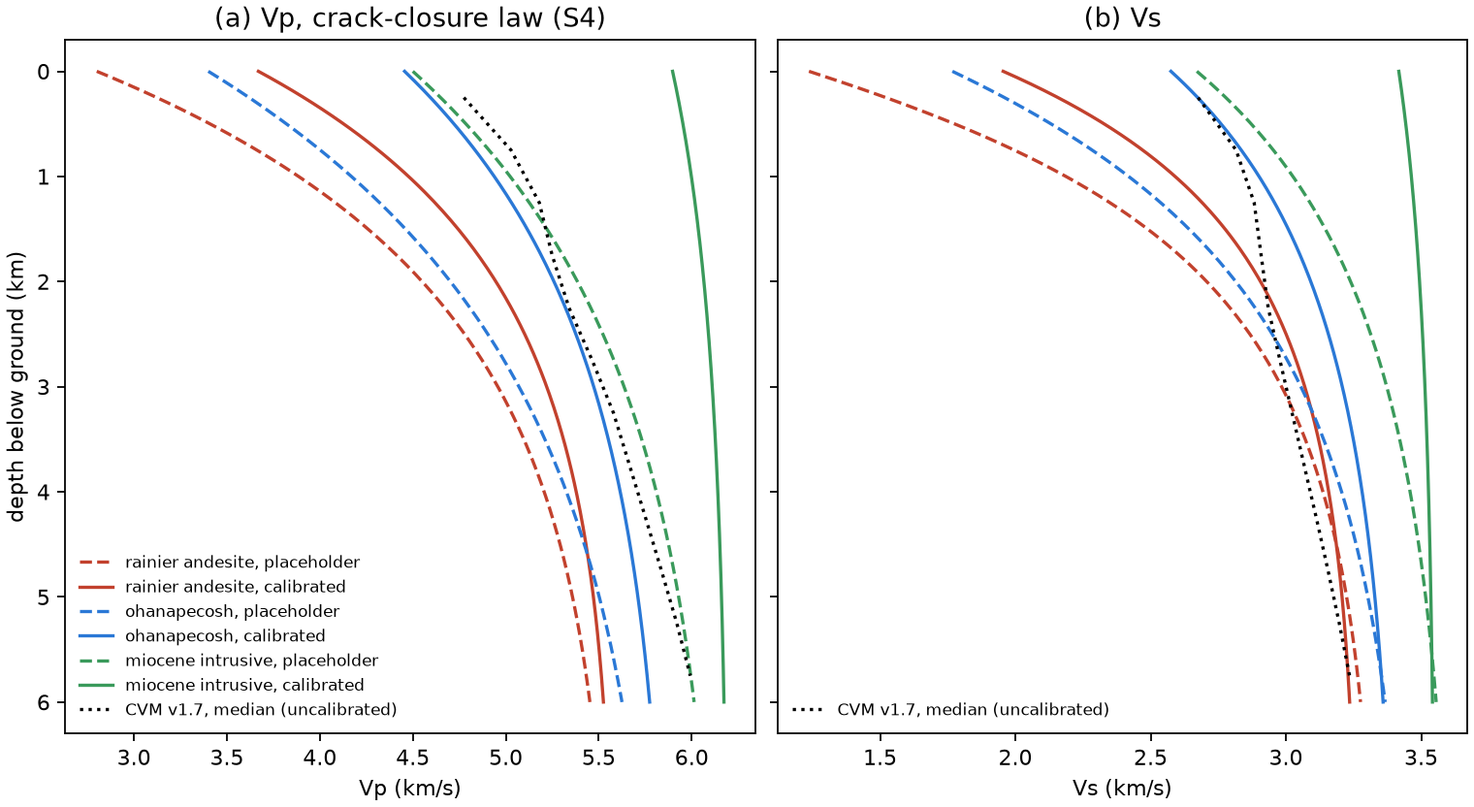
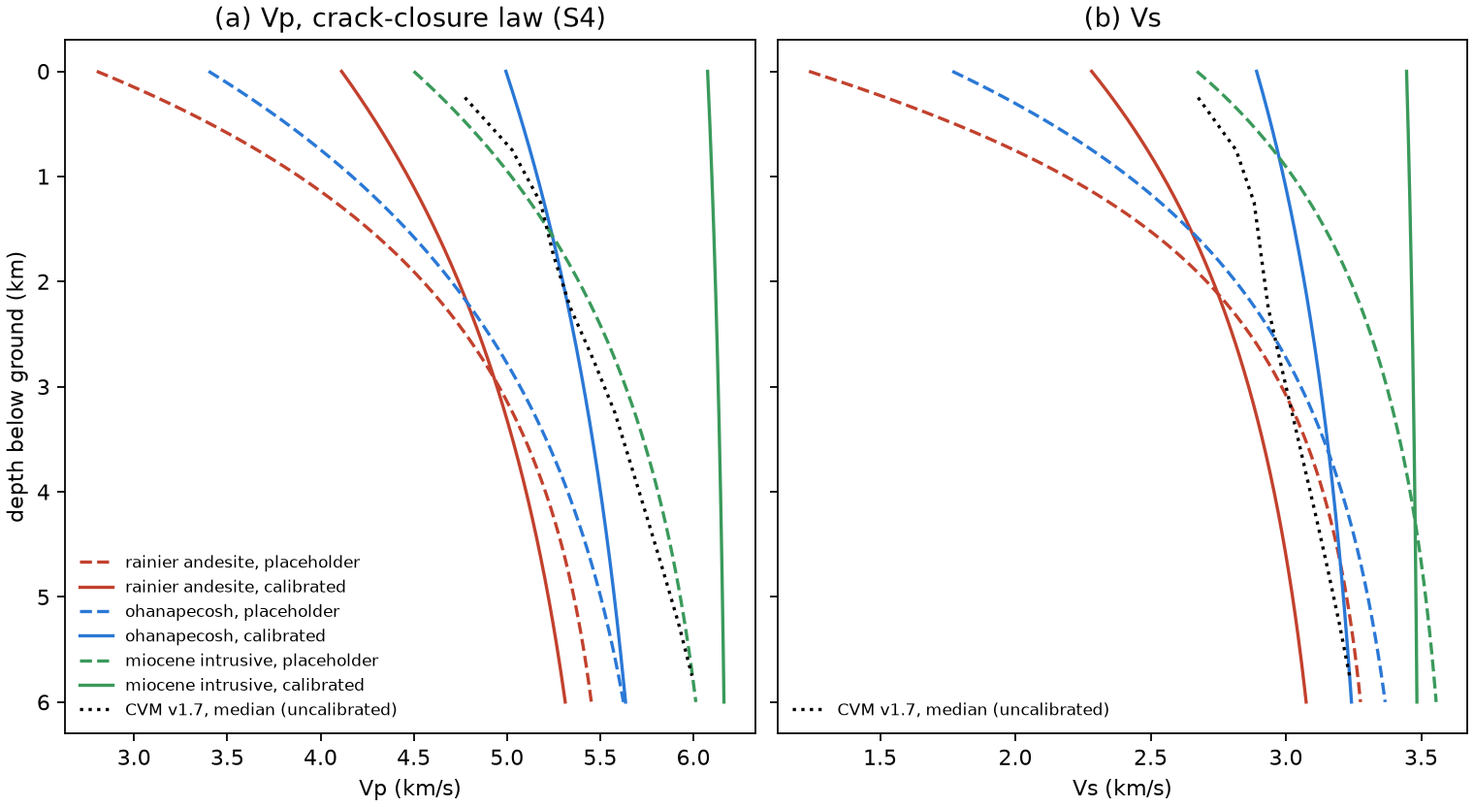
Figures and paper numbers remade on the model with the critical zone
New Fig. 9 (fig24_cz_section): the critical zone along A-A'. S6, S14, S16, S21
and S26 rerun on the recalibrated model; validation, iMUSH, relocation tables,
abstract and introduction updated. S16 and S21 now read the current model.

diff --git a/scripts/21_compare_imush.py b/scripts/21_compare_imush.py
@@ -4,9 +4,9 @@
 A test of the S13 static bias on CVM v1.7 / CRESCENT: at every Ulberg node inside the domain that the EMC
 file leaves unmasked (checkerboard recovery for 20 km features), sample
   regional      CVM v1.7 / CRESCENT as distributed        (vp_regional, vs_regional of model_nocal.zarr)
-  regional_bias the same with the S13 static bias          (vp_regional, vs_regional of model_v2.zarr)
+  regional_bias the same with the S13 static bias          (vp_regional, vs_regional of model.zarr)
   fused_uncal   the fused model before calibration          (vp, vs of model_nocal.zarr)
-  fused_v2      the fused model after S13 v2                (vp, vs of model_v2.zarr)
+  fused_v2      the fused model after S13 (critical zone)   (vp, vs of model.zarr)
 and report ln(V_Ulberg / V_model) by depth below the ground, for the whole domain and for its south
 (< 46.65 N, inside the iMUSH array) and north (>= 46.75 N, Rainier). Vp/Vs is compared with Ulberg's
 'matched' Vp and Vs
@@ -41,9 +41,9 @@ BINS = np.array([0, 1000, 2000, 3000, 4000, 6000, 8000, 11000, 15000, 20000])
 SOUTH_MAX, NORTH_MIN = 46.65, 46.75
 MODELS = {
     "regional": ("data/processed/model_nocal.zarr", "{v}_regional"),
-    "regional_bias": ("data/processed/model_v2.zarr", "{v}_regional"),
+    "regional_bias": ("data/processed/model.zarr", "{v}_regional"),
     "fused_uncal": ("data/processed/model_nocal.zarr", "{v}"),
-    "fused_v2": ("data/processed/model_v2.zarr", "{v}"),
+    "fused_v2": ("data/processed/model.zarr", "{v}"),
 }
 
 
@@ -109,7 +109,7 @@ def figure(tab: pd.DataFrame, path):
     styles = {
         "regional": ("#d98c2b", "CVM v1.7 / CRESCENT"),
         "regional_bias": ("#8a5cc2", "same + S13 static bias"),
-        "fused_v2": ("#2a78d6", "rainier3d (S13 v2)"),
+        "fused_v2": ("#2a78d6", "rainier3d"),
     }
     mid = {f"{a}-{b}": (a + b) / 2e3 for a, b in zip(BINS[:-1], BINS[1:], strict=True)}
     fig, ax = plt.subplots(1, 3, figsize=(12, 5.2), sharey=True, constrained_layout=True)
@@ -133,9 +133,7 @@ def figure(tab: pd.DataFrame, path):
             t.vpvs_ulberg_matched, z, ls, color="k", marker="o", ms=3, label=f"Ulberg 2020, matched{sfx}"
         )
         ax[2].plot(t.vpvs_regional, z, ls, color="#d98c2b", label=f"CVM v1.7 / CRESCENT{sfx}")
-        ax[2].plot(
-            t.vpvs_fused_v2, z, ls, color="#2a78d6", marker="o", ms=3, label=f"rainier3d (S13 v2){sfx}"
-        )
+        ax[2].plot(t.vpvs_fused_v2, z, ls, color="#2a78d6", marker="o", ms=3, label=f"rainier3d{sfx}")
     ax[2].set(xlabel="Vp/Vs (median, matched nodes)", title="(c) Vp/Vs")
     ax[0].set_ylabel("depth below ground (km)")
     ax[0].invert_yaxis()
@@ -148,7 +146,7 @@ def main():
     dom = load_domain()
     df = ulberg_nodes(dom)
     trees = {p: read_tree(REPO / p) for p in {p for p, _ in MODELS.values()}}  # each file read once
-    surf = trees["data/processed/model_v2.zarr"]["surface"].to_dataset()["elevation"]
+    surf = trees["data/processed/model.zarr"]["surface"].to_dataset()["elevation"]
     g = surf.interp(x=xr.DataArray(df.x.values, dims="p"), y=xr.DataArray(df.y.values, dims="p")).values
     df["depth_bg"] = g - df.z.values
     df = df[df.depth_bg > 0].reset_index(drop=True)

diff --git a/src/rainier3d/report/figures.py b/src/rainier3d/report/figures.py
@@ -598,6 +598,69 @@ def fig_depth_to_rock(tree, dom, path):
     return path
 
 
+def fig_cz_section(tree, dom, path, at_y, half_km=35.0, zmax=80.0):
+    """The critical zone along A-A' (the /cz columns, S4): ground and ice, then Vs, saturation and the
+    weathering index against depth below the ground or glacier bed, with layer bases and water table."""
+    from matplotlib.colors import LogNorm
+
+    cz = tree["cz"].to_dataset().sel(y=at_y, method="nearest")
+    sx, _ = dom.summit_xy
+    cz = cz.where(np.abs(cz.x - sx) <= half_km * 1e3, drop=True)
+    d = (cz.x.values - sx) / 1e3
+    z = cz["cz_depth"].values
+    surf = tree["surface"].to_dataset().sel(y=at_y, method="nearest").interp(x=cz.x.values)
+    fig, axs = plt.subplots(
+        4, 1, figsize=(7.2, 7.4), sharex=True, constrained_layout=True, height_ratios=[0.55, 1, 1, 1]
+    )
+    ax = axs[0]
+    elev = surf["elevation"].values / 1e3
+    ice = np.nan_to_num(cz["ice_thickness"].values) / 1e3
+    ax.fill_between(d, elev - ice, elev, color="#9fc9e8", lw=0, label="glacier ice")
+    ax.fill_between(  # ice-covered columns: no weathered layer, fractured rock saturated from the bed
+        d,
+        0,
+        1,
+        where=ice > 0,
+        transform=ax.get_xaxis_transform(),
+        color="#9fc9e8",
+        alpha=0.25,
+        lw=0,
+        step="mid",
+        label="ice-covered columns",
+    )
+    ax.plot(d, elev, color=INK, lw=0.8)
+    ax.set_ylabel("elevation (km)")
+    ax.set_title("(a) Ground surface along A–A′", fontsize=7, loc="left")
+    ax.legend(fontsize=6, loc="upper left", frameon=False)
+    lines = [
+        ("z_cover", "cover base", "#eda100", "-"),
+        ("z_weathered", "weathered base", "#e34948", "-"),
+        ("z_fractured", "fractured base (W = 0)", INK, "--"),
+        ("water_table", "water table (Fan et al. 2017)", "#2a78d6", ":"),
+    ]
+    panels = [
+        ("vs", "(b) Vs (m s⁻¹)", cmc.roma, LogNorm(150, 3500)),
+        ("saturation", "(c) Water saturation", cmc.devon_r, None),
+        ("weathering_index", "(d) Weathering index W", cmc.lajolla, None),
+    ]
+    for ax, (var, title, cmap, norm) in zip(axs[1:], panels, strict=True):
+        v = cz[var].transpose("cz_depth", "x").values
+        kw = {"norm": norm} if norm is not None else {"vmin": 0, "vmax": 1}
+        m = ax.pcolormesh(d, z, v, cmap=cmap, shading="nearest", rasterized=True, **kw)
+        for name, lab, col, ls in lines:
+            if name in cz:
+                ax.plot(d, cz[name].values, color=col, lw=0.9, ls=ls, label=lab)
+        ax.set_ylim(zmax, 0)
+        ax.set_ylabel("depth below ground\nor glacier bed (m)")
+        ax.set_title(title, fontsize=7, loc="left")
+        fig.colorbar(m, ax=ax, pad=0.01, aspect=12)
+    axs[1].legend(fontsize=6, loc="lower left", ncol=4, frameon=True, framealpha=0.85)
+    axs[-1].set_xlabel("km east of summit, section A–A′")
+    fig.savefig(path)
+    plt.close(fig)
+    return path
+
+
 def fig_vs_calibration(cal_yaml, pairs_csv, path):
     """(a) calibrated log-factor on the regional Vs against depth; (b) held-out S-P residuals before/after."""
     import yaml

diff --git a/scripts/16_relocation_figures.py b/scripts/16_relocation_figures.py
@@ -1,9 +1,9 @@
 """S16: figures for the joint Vp-Vs calibration with 3D relocation (S13, S14) -> docs/joint_calibration/.
 
 Reads configs/vs_calibration.yaml (S12), configs/velocity_calibration_v1.yaml (first S13 run, depth factors),
-configs/velocity_calibration.yaml (S13 v2: geology multipliers + static bias of the regional model), the S14
-relocations in outputs/relocation/<name>/ (all with slow air above the DEM + 1 cell), and the model snapshots
-in data/processed/ named in MODELS.
+configs/velocity_calibration.yaml (S13 with the critical zone: geology multipliers + static bias of the
+regional model), the S14 relocations in outputs/relocation/<name>/ (all with slow air above the DEM + 1 cell),
+and the model snapshots in data/processed/ named in MODELS.
 
 Usage: pixi run python scripts/16_relocation_figures.py
 """
@@ -29,7 +29,7 @@ MODELS = {
     "fused_nocal": ("3D, uncalibrated", "data/processed/model_nocal.zarr"),
     "fused_vscal": ("3D, Vs only (S12)", "data/processed/model_vscal_20260924.zarr"),
     "fused_v1": ("3D, depth factors (S13 v1)", "data/processed/model_joint_s13.zarr"),
-    "fused_joint": ("3D, geology + bias (S13 v2)", "data/processed/model.zarr"),
+    "fused_joint": ("3D, geology + bias + critical zone (S13)", "data/processed/model.zarr"),
 }
 COLORS = {
     "pnsn1d": "#7a7a7a",
@@ -77,7 +77,7 @@ def fig_factors():
     kf = np.array(sd["free_knots_m"]) / 1e3
     for v, c, lab in (("vp", "#c2412d", "Vp"), ("vs", COLORS["fused_joint"], "Vs")):
         f = np.array(v2[v]["factor"])
-        ax[0].plot(f, k, "o-", color=c, label=f"{lab}, S13 v2 static bias of the regional model")
+        ax[0].plot(f, k, "o-", color=c, label=f"{lab}, S13 static bias of the regional model")
         fk = f[np.isin(k, kf)]
         e = np.array(sd[v])
         ax[0].fill_betweenx(kf, fk * np.exp(-e), fk * np.exp(e), color=c, alpha=0.15, lw=0)

diff --git a/scripts/10_report.py b/scripts/10_report.py
@@ -57,6 +57,8 @@ def figures(dom):
     ]
     if "depth_to_bedrock" in tree["surface"]:
         made.append(F.fig_depth_to_rock(tree, dom, FIG / "fig23_depth_to_rock.png"))
+    if "cz" in tree:
+        made.append(F.fig_cz_section(tree, dom, FIG / "fig24_cz_section.png", sy))
     canopy = dom.path("processed") / "surface_canopy.zarr"
     if canopy.exists():
         made.append(

diff --git a/docs/paper/rainier3d_paper.md b/docs/paper/rainier3d_paper.md
@@ -26,9 +26,9 @@ abstract: |
 
   The subsurface model holds P- and S-wave speed, density and attenuation on three stacked grids whose spacing coarsens with depth, from 250 m × 50 m to 1 km. Mapped geology is extended to depth by explicit rules. Near-surface hydrothermal alteration is mapped from a helicopter electromagnetic survey. A pressure-dependent rock-physics law converts the units to seismic properties, and the result is merged with the USGS Cascadia velocity model v1.7 and CRESCENT Gen0 in the wavenumber domain.
 
-  The model is calibrated on 1823 P and 1280 S analyst picks from 88 Pacific Northwest Seismic Network (PNSN) earthquakes. Each event is relocated in 3D in every trial model, with topography honoured. Three rock-physics multipliers and a depth-dependent correction of the regional models are fitted by Gauss–Newton iterations on P, S and S−P residuals. On the 44 held-out events, relocated in the published model, the root-mean-square (RMS) residual is 0.093 s for P and 0.188 s for S, against 0.131 and 0.263 s in the PNSN 1D model and 0.121 and 0.317 s before calibration. An independent local-earthquake tomography confirms the Vs correction beneath Rainier.
+  The model is calibrated on 1823 P and 1280 S analyst picks from 88 Pacific Northwest Seismic Network (PNSN) earthquakes. Each event is relocated in 3D in every trial model, with topography honoured. Three rock-physics multipliers and a depth-dependent correction of the regional models are fitted by Gauss–Newton iterations on P, S and S−P residuals. On the 44 held-out events, relocated in the published model, the root-mean-square (RMS) residual is 0.092 s for P and 0.187 s for S, against 0.131 and 0.263 s in the PNSN 1D model and 0.120 and 0.316 s before calibration. An independent local-earthquake tomography confirms the Vs correction beneath Rainier.
 
-  Relocated with NonLinLoc in the same way in both models, the 371 PNSN earthquakes of magnitude 1 or larger from 2023 to 2025 fit better in rainier3d than in the PNSN one-dimensional model (median RMS 0.109 against 0.119 s for the 340 well-located events), and none is placed above the ground, against four in the one-dimensional model.
+  Relocated with NonLinLoc in the same way in both models, the 371 PNSN earthquakes of magnitude 1 or larger from 2023 to 2025 fit better in rainier3d than in the PNSN one-dimensional model (median RMS 0.107 against 0.119 s for the 340 well-located events), and one is placed above the ground, by 12 m, against four pinned at the topography in the one-dimensional model.
 
   The same grids carry the following surface layers:
   - elevation, geology and glacier thickness;
@@ -50,7 +50,7 @@ Mount Rainier is the most hazardous volcano in the Cascade Range, for two reason
 rainier3d connects these scales in one model with three properties:
 - it is tied to the mapped geology at the surface: the 149 map symbols of the Washington 1:100,000 geologic map in the box [@dnr_gems_100k] are assigned to 14 surface model units by the rules of `configs/units.yaml` (S1) and extended to depth by explicit geometry rules (S3, [@sec:subsurface]), and an invariant test requires the top rock cell of the finest level (L1) to carry the mapped unit in at least 95% of bedrock columns;
 - it is consistent with regional tomography at depth: S5 merges the geology model in the wavenumber domain with the USGS Cascadia velocity model v1.7 down to 9.9 km below the ground [@cvm17_article] and CRESCENT Gen0 below it [@crescent_gen0], keeping the regional model at wavelengths longer than a cutoff of 6 km at the surface, 10 km at 2 km depth and 20 km at 10 km depth (placeholder values in `configs/domain.yaml`), the geology model alone above 300 m depth, and a linear taper between 300 and 1000 m; the root-mean-square (RMS) difference of ln V between the low-passed fused and regional models is at most 0.013, against a tolerance of 0.03;
-- it reproduces the travel times of the Pacific Northwest Seismic Network (PNSN): calibrated in S13 on 1823 P and 1280 S analyst picks from 88 PNSN earthquakes (M 2.0–3.4, 1 January 2015 to 1 September 2026) [@comcat_uw], each relocated in 3D in every trial model, it lowers the RMS residual of held-out events after relocation from 0.121 to 0.093 s for P and from 0.317 to 0.188 s for S ([@sec:subsurface]).
+- it reproduces the travel times of the Pacific Northwest Seismic Network (PNSN): calibrated in S13 on 1823 P and 1280 S analyst picks from 88 PNSN earthquakes (M 2.0–3.4, 1 January 2015 to 1 September 2026) [@comcat_uw], each relocated in 3D in every trial model, it lowers the RMS residual of held-out events after relocation from 0.120 to 0.092 s for P and from 0.316 to 0.186 s for S ([@sec:subsurface]).
 
 The same grids carry the surface layers that describe soil, water, vegetation and ice, the geodetic strain field, and the stress of the edifice load. The model is a digital model rather than a digital twin: it assimilates no time-dependent data. Only the GNSS product is refreshed on a schedule.
 
@@ -530,7 +530,7 @@ and where $W$ = 0 the medium is exactly the rock law of [@sec:rockphysics]. Perm
 the conductivity of POLARIS and the cover and weathered classes to the crustal permeability–depth curve of
 @ingebritsen_manning_1999 in rock, capped at 10⁻¹² m².
 
-**Upscaling into the levels.** An L1, L2 or L3 cell that reaches into the columns takes the travel-time average of
+**Upscaling into the levels** ([@fig:czsection]). An L1, L2 or L3 cell that reaches into the columns takes the travel-time average of
 their Vp and Vs and their mean density; the columns are stored as the `/cz` node of `model.zarr` with the van
 Genuchten parameters, saturation, effective stress, porosity and permeability, the state on which a groundwater
 model and a data-assimilation scheme can later run. In the top 50 m of L1 the median Vs is 0.58 of the rock
@@ -539,6 +539,8 @@ the travel-time average is dominated by the slowest layers, the top L1 cell of a
 saturated reaches Vp/Vs above 3: 2,544 cells in unconsolidated units (at most 4.70, within the 4 to 4.5 of
 saturated sediment, @pasquet_2015) and 6,403 cells (0.39% of the consolidated-rock cells, at most 3.97) in
 consolidated units.
+
+![The critical zone along A–A′ (west–east through the summit; the `/cz` node of `model.zarr`, S4). (a) Ground surface, with glacier ice and the ice-covered columns shaded. (b) Vs, (c) water saturation and (d) weathering index W against depth below the ground or the glacier bed, with the bases of the Quaternary cover, the weathered layer and the fractured zone, and the water table of @fan2017_wtd. Under ice the columns start in fractured rock saturated from the bed (W = 0). Depths below 80 m are not shown; Vs joins the L1 cells at 150 m.](figures/fig24_cz_section.png){#fig:czsection width=100%}
 
 **Calibration with the critical zone.** The rock calibration of [@sec:calibration] was refitted with the critical
 zone in every trial model. It fits the PNSN picks as well as without it (held-out RMS 0.0921 s for P and 0.1866 s
@@ -645,13 +647,13 @@ where $s$ is slowness, $\phi_k$ the linear interpolation weight of knot $k$ at d
 
 : Gauss–Newton iterations of the calibration (S13 with the critical zone of [@sec:cz] in every trial model, `outputs/joint_calibration_cz/history.json`): RMS after relocation and the geology parameters. Most of the misfit reduction happens in the first iteration. {#tbl:iterations}
 
-The fit is resolved as follows ([@tbl:multipliers], [@tbl:bias], [@fig:calibration], [@fig:law]). [TODO: [@fig:calibration] and [@fig:law], the Vp/Vs and model-agreement numbers of the regional-correction bullets, the alteration check below, and the validation and relocation sections still come from the calibration without the critical zone (`configs/velocity_calibration_v2.yaml`); rerun S10, S6, S14 and S26 on the current model and update them.]
+The fit is resolved as follows ([@tbl:multipliers], [@tbl:bias], [@fig:calibration], [@fig:law]).
 
 - **V₀.** It is the parameter the data require: ×1.47 ± 0.03 (×1.31 without the critical zone). The table rock is too slow near the surface, and the slower critical zone above it raises the multiplier further. With it, the zero-pressure Vp of the rock law is 4.1 km s⁻¹ for Rainier andesite and 5.0 km s⁻¹ for the Ohanapecosh Formation. Because the multiplier is global, the Miocene plutons reach the cap of 0.98 V∞ = 6.08 km s⁻¹ at zero pressure (4.5 × 1.47 = 6.6), so their rock law is uniform from the surface down; the velocity drop toward the surface comes from the critical zone alone.
 - **P\*.** It is not resolved: its log-multiplier ranged from +0.26 to +0.62 across the iterations (final ×1.79, posterior s.d. 0.21 in ln) while the held-out misfit changed by less than 2 ms, and it trades off against the regional correction at 2 km.
 - **Rock Vs.** It falls by 3.9 ± 1.0% (ln multiplier −0.039 with posterior s.d. 0.010, against a prior s.d. of 0.1). Because it acts at fixed Vp, it raises the Vp/Vs of every rock unit by about 4%.
-- **Regional correction.** It changes Vp by less than 3.5% at every depth. It makes Vs 5–9% faster at 2–7 km and 5–8% slower at 16–25 km, which lowers Vp/Vs at 2–4 km depth from 1.83 to 1.74.
-- **Agreement between the two models.** After calibration, the geology model and the corrected regional model agree to within 3.5% between 0.3 and 4 km depth. Uncalibrated, they differ by up to 24%, and the fusion invariant exceeds its tolerance in L1 (0.032). These are mean ln(V_geology / V_regional) by depth below ground over L1–L3 without ice, from `model_nocal.zarr` and `model_v2.zarr`; the largest uncalibrated difference is −0.238 in Vp at 0.3–1 km, and the invariant values are 0.0316 for Vp and 0.0326 for Vs (`outputs/relocation/s5_nocal.log`). In the top 300 m, which the fused model takes from the geology alone, the calibrated rock remains 21% faster in Vp and 30% faster in Vs than the regional model.
+- **Regional correction.** It changes Vp by less than 3.5% at every depth. It makes Vs 5–8% faster at 2–7 km and 5–8% slower at 16–25 km, which lowers Vp/Vs at 2–4 km depth from 1.83 to 1.74.
+- **Agreement between the two models.** After calibration, the geology model and the corrected regional model agree to within 5.5% between 0.3 and 4 km depth (largest difference +0.055 in ln Vs at 0.3–1 km). Uncalibrated, they differ by up to 24%, and the fusion invariant exceeds its tolerance in L1 (0.032). These are mean ln(V_geology / V_regional) by depth below ground over L1–L3 without ice, from `model_nocal.zarr` and `model.zarr`; the largest uncalibrated difference is −0.238 in Vp at 0.3–1 km, and the invariant values are 0.0316 for Vp and 0.0326 for Vs (`outputs/relocation/s5_nocal.log`). In the top 300 m, which the fused model takes from the geology alone, the calibrated geology, critical zone included, remains 23% faster in Vp and 31% faster in Vs than the regional model (mean ln ratios 0.21 and 0.27).
 
 | Parameter | Multiplier | Posterior s.d. (ln) | Resolved |
 |-----------|------|------|------|
@@ -675,15 +677,15 @@ The fit is resolved as follows ([@tbl:multipliers], [@tbl:bias], [@fig:calibrati
 **Why this parameterisation.** Two simpler parameterisations were tested against the same data ([@tbl:models]).
 - **Vs-only depth factor, catalogue hypocentres fixed.** It fits S as well as the adopted model, but pushes Vp/Vs to 1.60–1.67 at 2–4 km. That is low for crustal rock and lower still than expected beneath a volcano with a hydrothermal system: the S−P misfit of fixed hypocentres is partly a location error. This is the earlier S12 calibration (`scripts/12_calibrate_vs.py`, `configs/vs_calibration.yaml`), which raised Vs by up to 10% at 2–7 km; it leaves 30,086 fused cells below Vp/Vs = √(8/3), against 11,738 for the adopted model.
 - **Depth factors on the regional Vp and Vs at all depths, with relocation.** It fits as well as the adopted model, but places the correction in the regional model where the fusion does not use it. It requires Vp 7–19% faster in the top 2 km, where the fused model follows the geology, and it breaks the fusion invariant (0.050). This is the first S13 run (`configs/velocity_calibration_v1.yaml`): Vp factors of 1.19, 1.14 and 1.07 at 0, 1 and 2 km, and an L1 invariant of 0.050 for Vp and 0.044 for Vs (`outputs/relocation/s5_joint.log`).
-- **Adopted parameterisation.** Fitting the geology's rock physics and correcting the regional model only below 1 km fits equally well, satisfies the invariant (0.011 for Vp, 0.012 for Vs, L1 in `outputs/fusion_report.csv`) and keeps the unit contrasts in physical parameters.
+- **Adopted parameterisation.** Fitting the geology's rock physics and correcting the regional model only below 1 km fits equally well, satisfies the invariant (0.011 for Vp, 0.013 for Vs, L1 in `outputs/fusion_report.csv`) and keeps the unit contrasts in physical parameters.
 
-**Alteration and the calibration.** The calibration was run with a conduit-centred alteration field. Replacing it with the EM-based field of [@sec:alteration] changes the relocated RMS from 0.095 to 0.093 s for P and leaves S at 0.190 s, so the calibrated parameters are kept.
+**Alteration and the calibration.** The first calibration without the critical zone was run with a conduit-centred alteration field; replacing it with the EM-based field of [@sec:alteration] changed the relocated RMS from 0.095 to 0.093 s for P and left S at 0.190 s. The calibration with the critical zone was run directly on the EM-based field.
 
 ## Validation {#sec:validation}
 
-**Held-out events.** On the 44 events not used in the fit, relocated in each model, the RMS falls from 0.121 to 0.093 s for P and from 0.317 to 0.188 s for S during the calibration (S13, [@tbl:iterations]). The fitting half ends at 0.097 and 0.192 s, so the fit does not overfit. Relocating the same held-out events in the published model (EM-based alteration, `data/processed/model.zarr`) with S14 gives 0.093 s for P (949 picks) and 0.188 s for S (655 picks), against 0.131 and 0.263 s in the PNSN 1D model on the same events (`outputs/relocation/heldout_published.json`; split as in S13, event identifiers in origin-time order, every second one held out).
+**Held-out events.** On the 44 events not used in the fit, relocated in each model, the RMS falls from 0.120 to 0.092 s for P and from 0.316 to 0.186 s for S during the calibration (S13, [@tbl:iterations]). The fitting half ends at 0.093 and 0.192 s, so the fit does not overfit. Relocating the same held-out events in the published model (critical zone and EM-based alteration, `data/processed/model.zarr`) with S14 gives 0.092 s for P (949 picks) and 0.187 s for S (655 picks), against 0.131 and 0.263 s in the PNSN 1D model on the same events (`outputs/relocation/heldout_published.json`; split as in S13, event identifiers in origin-time order, every second one held out).
 
-**All models scored the same way.** [@tbl:models] relocates all 88 events in each model with the same locator and topography. Relocation alone does not rescue the uncalibrated three-dimensional model: its S residuals stay larger than those of the 1D model. The S−P misfit therefore lies in the velocity model, not in the catalogue hypocentres. With the ground bound, no event is placed at the top of the grid, and one of the 88 events ends more than 50 m above the ground in the published model, at the limit of the ground penalty (`outputs/relocation/published/stats.json`, `above_ground_gt_50m` = 1; three in the conduit-alteration run).
+**All models scored the same way.** [@tbl:models] relocates all 88 events in each model with the same locator and topography. Relocation alone does not rescue the uncalibrated three-dimensional model: its S residuals stay larger than those of the 1D model. The S−P misfit therefore lies in the velocity model, not in the catalogue hypocentres. With the ground bound, no event is placed at the top of the grid, and two of the 88 events end more than 50 m above the ground in the published model, at the limit of the ground penalty (`outputs/relocation/fused_joint/stats.json`, `above_ground_gt_50m` = 2; three in the conduit-alteration run).
 
 | Model | P RMS (s) | S RMS (s) | Epicentre shift from ComCat, median (m) | Depth shift, median (m) |
 |------------------|----|----|------|------|
@@ -692,7 +694,7 @@ The fit is resolved as follows ([@tbl:multipliers], [@tbl:bias], [@fig:calibrati
 | 3D, Vs-only depth factor¹ | 0.102 | 0.190 | 847 | +306 |
 | 3D, depth factors on regional Vp and Vs¹ | 0.094 | 0.190 | 835 | +727 |
 | 3D, geology multipliers and regional correction, conduit-centred alteration¹ | 0.095 | 0.190 | 856 | +852 |
-| 3D, published model: the same calibration with the EM-based alteration¹ | 0.093 | 0.190 | 850 | +855 |
+| 3D, published model: recalibrated with the critical zone, EM-based alteration¹ | 0.093 | 0.189 | 810 | +895 |
 
 : Residuals after relocating all 88 events in each model (S14, `outputs/relocation/<model>/stats.json`). Depth shifts are relocated minus ComCat, positive deeper. ¹ Fitted on these events; the held-out scores are the fair measure. {#tbl:models}
 
@@ -700,23 +702,23 @@ The fit is resolved as follows ([@tbl:multipliers], [@tbl:bias], [@fig:calibrati
 
 **Independent tomography.** The iMUSH project imaged Vp and Vs around Mount St. Helens from local earthquakes and explosions recorded by a 70-station array [@ulberg_2020_article; @ulberg_2020].
 - **Coverage.** Its grid spans the whole model box. Its Vp is resolved over 82–90% of the box. Its Vs is resolved over 83–93% of the southern strip (south of 46.65° N) but only 11–19% of the northern half. Script S21 samples our models at its 51,300 resolved nodes below ground. The model is the EarthScope EMC file `iMUSH-localEQ-Ulberg-2020.r0.0-n4c.nc`, with 1.2 km nodes masked where checkerboard tests do not recover 20 km features; its depth axis is read as kilometres below sea level, as the EMC page states, although the netCDF long_name says below the surface. Coverage is counted over 0–14 km below sea level, and north of 46.75° N between 188 and 1354 Vs nodes fall in each depth bin.
-- **Beneath Rainier, north of 46.75° N ([@tbl:imush]).** The iMUSH model finds the Cascadia model's Vs 5–8% too slow at 1–8 km and 3–4% too fast at 11–20 km, the shape of [@tbl:bias]. With the correction, the difference in Vs is 2% or less below 2 km. Vp/Vs moves from 1.83–1.85 towards the iMUSH value of 1.75–1.77; at 4–8 km our Vp/Vs (1.705) is about 0.05 below it.
-- **South of 46.65° N, inside the iMUSH array.** The iMUSH Vs is within 1–2% of the Cascadia model at 1–6 km, and the correction makes our Vs 5–7% too fast. The correction is therefore local to Rainier.
+- **Beneath Rainier, north of 46.75° N ([@tbl:imush]).** The iMUSH model finds the Cascadia model's Vs 5–8% too slow at 1–8 km and 3–4% too fast at 11–20 km, the shape of [@tbl:bias]. With the correction, the difference in Vs is 2% or less below 2 km. Vp/Vs moves from 1.83–1.85 towards the iMUSH value of 1.75–1.77; at 4–8 km our Vp/Vs (1.70–1.71) is about 0.05 below it.
+- **South of 46.65° N, inside the iMUSH array.** The iMUSH Vs is within 1–2% of the Cascadia model at 1–6 km, and the correction makes our Vs 5–6% too fast. The correction is therefore local to Rainier.
 - **Independence.** Both studies use PNSN arrivals from 2015–2016. The iMUSH-only stations and explosions make the comparison largely independent in the south, less so in the north.
 
 | Depth below ground (km) | 1–2 | 2–3 | 3–4 | 4–6 | 6–8 | 11–15 | 15–20 |
 |---|---|---|---|---|---|---|---|
 | Vs, regional as distributed | +0.084 | +0.073 | +0.064 | +0.055 | +0.046 | −0.030 | −0.035 |
-| Vs, regional with the correction | +0.061 | +0.016 | −0.010 | −0.019 | −0.009 | −0.005 | +0.017 |
+| Vs, regional with the correction | +0.063 | +0.020 | −0.006 | −0.016 | −0.009 | −0.004 | +0.019 |
 | Vp/Vs, iMUSH | 1.770 | 1.759 | 1.754 | 1.757 | 1.755 | 1.744 | 1.765 |
 | Vp/Vs, regional | 1.810 | 1.828 | 1.850 | 1.851 | 1.851 | 1.720 | 1.723 |
-| Vp/Vs, rainier3d | 1.794 | 1.767 | 1.736 | 1.705 | 1.705 | 1.720 | 1.772 |
+| Vp/Vs, rainier3d | 1.795 | 1.769 | 1.738 | 1.706 | 1.703 | 1.720 | 1.774 |
 
 : North of 46.75° N: mean ln(V~iMUSH~/V~model~) for Vs and median Vp/Vs (S21, `outputs/model_comparison/ulberg2020_by_depth.csv`). {#tbl:imush}
 
 ![rainier3d and the regional models against the iMUSH tomography. (a, b) Mean ln(V~iMUSH~/V~model~) against depth below ground, over the box (solid) and north of 46.75° N (dotted). (c) Median Vp/Vs where the iMUSH P and S models are both resolved.](figures/fig13_imush.png){#fig:imush width=100%}
 
-**Catalogue hypocentres.** At the ComCat hypocentres, which were located in a 1D model, the three-dimensional model predicts later arrivals than the 1D model at every station: by 0.30 s for P (mean over 50 stations of the station-mean difference) and 0.48 s for S (45 stations with at least five picks); per pick, the means are 0.26 and 0.44 s (`outputs/pnsn_residuals.csv`). With each event's mean residual removed, the RMS is 0.132 s (P) and 0.227 s (S) for the 3D model, against 0.159 and 0.287 s for the 1D model. The per-station 3D − 1D delay correlates with the mean 1D residual at 0.67 for both phases ([@fig:pnsn]). The 3D structure therefore explains part of what station corrections absorb.
+**Catalogue hypocentres.** At the ComCat hypocentres, which were located in a 1D model, the three-dimensional model predicts later arrivals than the 1D model at every station: by 0.30 s for P (mean over 50 stations of the station-mean difference) and 0.48 s for S (45 stations with at least five picks); per pick, the means are 0.25 and 0.43 s (`outputs/pnsn_residuals.csv`). With each event's mean residual removed, the RMS is 0.132 s (P) and 0.227 s (S) for the 3D model, against 0.159 and 0.287 s for the 1D model. The per-station 3D − 1D delay correlates with the mean 1D residual at 0.70 for P and 0.67 for S ([@fig:pnsn]). The 3D structure therefore explains part of what station corrections absorb.
 
 ![At the ComCat hypocentres: (a) distribution of P residuals after removing each event's mean, for the PNSN 1D model and the fused model; (b) mean 3D − 1D predicted delay against mean 1D residual for each station with at least five picks.](figures/fig7_pnsn.png){#fig:pnsn width=100%}
 
@@ -724,7 +726,7 @@ The fit is resolved as follows ([@tbl:multipliers], [@tbl:bias], [@fig:calibrati
 
 [@fig:sectionA; @fig:sectionB] show the fused model along two sections through the summit, and [@fig:profiles] compares vertical profiles.
 
-- **Level L1 (the ground to sea level).** L1 is on average 5% faster in Vp and 8% faster in Vs than the regional model. The calibrated rock is stiffer than the shallowest layer of the Cascadia model, a generic near-surface model with a median top-sample Vs of 194 m s⁻¹ over the model domain. The travel times constrain this difference only beneath the stations. The averages are the mean ln(V_fused / V_regional) over all non-air L1 cells, from 0 to 4.4 km NAVD88: +0.046 for Vp and +0.077 for Vs (`outputs/fusion_report.csv`). The difference is largest in the top 300 m, where the calibrated geology is 21% faster in Vp and 30% faster in Vs than the regional model.
+- **Level L1 (the ground to sea level).** L1 is on average 7% faster in Vp and 10% faster in Vs than the regional model. The calibrated rock is stiffer than the shallowest layer of the Cascadia model, a generic near-surface model with a median top-sample Vs of 194 m s⁻¹ over the model domain. The travel times constrain this difference only beneath the stations. The averages are the mean ln(V_fused / V_regional) over all non-air L1 cells, from 0 to 4.4 km NAVD88: +0.068 for Vp and +0.095 for Vs (`outputs/fusion_report.csv`). The difference is largest in the top 300 m, where the calibrated geology, critical zone included, is 23% faster in Vp and 31% faster in Vs than the regional model.
 - **Plutons.** The Miocene plutons stand out as fast columns to 10 km below sea level, the base set by `pluton_base_z`. With the calibrated V₀ their geology Vp is already 5.90 km s⁻¹ at the surface and 6.07 km s⁻¹ at 2 km depth (L1 medians in `data/processed/properties_geology.zarr`).
 - **Puget Group.** The Puget Group block west of the summit is slow down to 4 km below sea level. It is unit `eocene_sedimentary` (V₀ = 2.6 km s⁻¹, V∞ = 5.2 km s⁻¹ in [@tbl:units]), whose base is the supracrustal base at −4 km NAVD88, and on the summit row it extends from 571.7 to 582.0 km easting (UTM 10N).
 - **Seismicity.** Summit earthquakes form a column from the edifice to about 3 km below sea level. WRSZ earthquakes concentrate 4–12 km below sea level, 12–18 km west of the summit. The sections show 4369 PNSN events of M 0.5–3.4 from 2015 to 2026 (`web/atlas/data/events.geojson`, depths taken as below sea level). Of the 1559 events within 2 km of A–A′ and 3 km of the summit, 90% lie between 2.3 km above and 1.9 km below sea level and 99% above 2.6 km below. Of the 329 West Rainier Seismic Zone (WRSZ) events within 2 km of A–A′ and 8–25 km west of the summit, 90% lie at 4.5–11.8 km below sea level and 10.8–18.2 km west.
@@ -1216,30 +1218,30 @@ Of the 15,660 PNSN earthquakes since 1980 in the box, 500 have ComCat hypocentre
 - **Travel times and location.** Grid2Time with the Podvin–Lecomte finite-difference eikonal solver (`GT_PLFD 1.0e-3`, `GTMODE GRID3D ANGLES_NO`) [TODO: cite Podvin and Lecomte 1991; no key in sources.yaml or references.bib]; NLLoc with the equal-differential-time likelihood (`LOCMETH EDT_OT_WT`) and oct-tree search (`LOCSEARCH OCT 10 10 6 0.01 30000 10000`). Events need at least six picks, four of them P. Gaussian pick errors are 0.14 s for P and 0.23 s for S, as in the calibration; model errors are 0.1 s (`LOCGAU 0.1 0.0`) and grow with travel time as 2% of it, between 0.05 and 0.5 s (`LOCGAU2 0.02 0.05 0.5`).
 - **Quality.** Graded from the rainier3d location. Grade A: gap < 180°, at least eight phases and depth standard deviation < 2 km. Grade B: gap < 250° and at least six phases. Grade C: the rest.
 
-**The 2023–2025 catalogue.** We applied S26 to the 371 PNSN earthquakes of magnitude 1 or larger in the box from 2023 to 2025. They carry 20,425 analyst picks (12,546 P and 7,879 S) at 45 stations inside the box, and 370 have at least six picks. NonLinLoc locates 347 events in the 1D model and 353 in rainier3d. The others are rejected because their most likely location lies on the edge of the search volume ([@tbl:relocation]):
+**The 2023–2025 catalogue.** We applied S26 to the 371 PNSN earthquakes of magnitude 1 or larger in the box from 2023 to 2025. They carry 20,425 analyst picks (12,546 P and 7,879 S) at 45 stations inside the box, and 370 have at least six picks. NonLinLoc locates 347 events in the 1D model and 354 in rainier3d. The others are rejected because their most likely location lies on the edge of the search volume ([@tbl:relocation]):
 
-- in rainier3d, 12 rejected events lie at its base, at 18.2 km below sea level, the deepest node of the search grid (z₀ = 3.8 km below sea level plus 44 steps of 0.5 km in `scripts/26_relocate_catalog.py`);
+- in rainier3d, 10 rejected events lie at its base, at 18.2 km below sea level, the deepest node of the search grid (z₀ = 3.8 km below sea level plus 44 steps of 0.5 km in `scripts/26_relocate_catalog.py`);
 - the remaining rejections, in either model, are epicentres at the edge of the box, beyond which there are few stations.
 
 | | ComCat | NonLinLoc, PNSN 1D | NonLinLoc, rainier3d |
 |---|---|---|---|
-| Located (of 370) | – | 347 | 353 |
-| Rejected: base of the volume / side | – | 3 / 20 | 12 / 5 |
-| Median RMS, grade A and B (s) | – | 0.119 | 0.109 |
-| Median depth sd; largest horizontal uncertainty (km) | – | 0.61; 0.61 | 0.68; 0.57 |
-| Above the ground | 1 | 4, pinned at the mask | 0 |
-| Summit (165 events): median elevation; 5–95% range (km) | −0.31; −1.29 to 2.18 | −0.28; −0.90 to 0.77 | −0.91; −1.82 to 0.65 |
-| WRSZ (129 events): median elevation; 5–95% range (km) | −8.8; −14.7 to −3.7 | −9.6; −16.0 to −3.4 | −9.5; −15.2 to −4.5 |
+| Located (of 370) | – | 347 | 354 |
+| Rejected: base of the volume / side | – | 2 / 21 | 10 / 6 |
+| Median RMS, grade A and B (s) | – | 0.119 | 0.107 |
+| Median depth sd; largest horizontal uncertainty (km) | – | 0.61; 0.61 | 0.67; 0.56 |
+| Above the ground | 0 | 4, pinned at the mask | 1, 12 m |
+| Summit (165 events): median elevation; 5–95% range (km) | −0.31; −1.29 to 2.18 | −0.28; −0.90 to 0.77 | −0.80; −1.60 to 0.66 |
+| WRSZ (129 events): median elevation; 5–95% range (km) | −8.8; −14.7 to −3.7 | −9.6; −16.0 to −3.4 | −9.5; −15.3 to −4.6 |
 
 : Relocation of the 2023–2025 PNSN catalogue, magnitude ≥ 1 (S26, `outputs/catalog/summary.json` and `catalog_relocated.csv`). Rows below "Located" are for the 340 grade A and B events located in both models. Summit events lie within 3 km of the summit and WRSZ events 8–25 km west of it, both by ComCat epicentre. {#tbl:relocation}
 
-**What changes.** The residuals fall by 8% in rainier3d (median RMS 0.109 against 0.119 s). The events move a median 0.6 km horizontally and 0.44 km deeper than in the 1D model (10th–90th percentile −0.55 to +1.46 km).
+**What changes.** The residuals fall by 10% in rainier3d (median RMS 0.107 against 0.119 s). The events move a median 0.6 km horizontally and 0.38 km deeper than in the 1D model (10th–90th percentile −0.49 to +1.59 km).
 
-- **Summit.** The largest change is under the summit. The 1D model gathers the events near sea level, over 1.7 km (5–95%). rainier3d places them 0.76 km deeper (median) and spreads them over 2.5 km. In the 1D model, four events rise until they meet the topography mask: ComCat places them 2.8–7.1 km below sea level, and rainier3d 1.2–9.9 km below it.
-- **WRSZ.** The median depth changes little (−0.16 km), and the depth range narrows from 12.6 to 10.7 km.
+- **Summit.** The largest change is under the summit. The 1D model gathers the events near sea level, over 1.7 km (5–95%). rainier3d places them 0.52 km deeper (median) and spreads them over 2.3 km. In the 1D model, four events rise until they meet the topography mask: ComCat places them 2.8–7.1 km below sea level, and rainier3d 1.3–9.8 km below it. One summit event ends 12 m above the ground in rainier3d.
+- **WRSZ.** The median depth changes by less than 0.1 km, and the depth range narrows from 12.6 to 10.7 km.
 - **Edges.** Epicentres near the northwestern and southeastern edges of the box shift outward in both models, where the station coverage ends.
 
-In this period ComCat places one event above the ground. The problem of the 500 above-ground events therefore lies in the older part of the catalogue, which S26 can relocate once its picks are cached ([@sec:limits]).
+In this period ComCat places no event above the ground. The problem of the 500 above-ground events therefore lies in the older part of the catalogue, which S26 can relocate once its picks are cached ([@sec:limits]).
 
 ![The 2023–2025 PNSN catalogue (magnitude ≥ 1; the 344 events graded A or B in rainier3d) as located by ComCat, by NonLinLoc in the PNSN 1D model and by NonLinLoc in rainier3d. Top: epicentres over elevation contours. Bottom: west–east sections within 5 km of the summit, with the ground profile, and the number of events above the ground.](figures/fig19_relocated_catalogs.png){#fig:relocated width=100%}
 
@@ -1266,7 +1268,7 @@ Below the ground it shows Vs, Vp, Vp/Vs, density, units, alteration and the stra
     - The alteration field covers only the top ~150 m. The buried alteration of the upper west flank [@finn_2001] is not represented.
     - The magma body is a prescribed ellipsoid that the fusion largely removes.
     - The Southern Washington Cascades Conductor [@stanley1996] is not represented.
-- **Regional correction.** It is one depth profile for the whole box. The iMUSH comparison shows that it holds beneath Rainier but makes Vs 5–7% too fast in the south, so it should vary laterally.
+- **Regional correction.** It is one depth profile for the whole box. The iMUSH comparison shows that it holds beneath Rainier but makes Vs 5–6% too fast in the south, so it should vary laterally.
 - **Top 300 m.** The calibrated rock is 21% faster in Vp and 30% faster in Vs than the shallowest layer of the Cascadia model, and the travel times constrain it only beneath the stations. Near-surface Vs from dense nodal and fibre arrays, or station terms estimated with a prior on their size, can settle which is right. Station terms are not estimated in the calibration.
 - **Depth coverage of the calibration.** Only 30 of the 88 events are deeper than 11 km. Larger pick sets, such as the curated PNSN dataset [@ni2023], and Rainier-specific models [@obrebski2015; @flinders2017] would constrain the deep correction.
 - **Reference 1D model.** The PNSN one-dimensional model used for comparison is read from a local table whose identity (P3 Puget Sound or C3 Cascades) is not documented [TODO: confirm with PNSN and cite].
